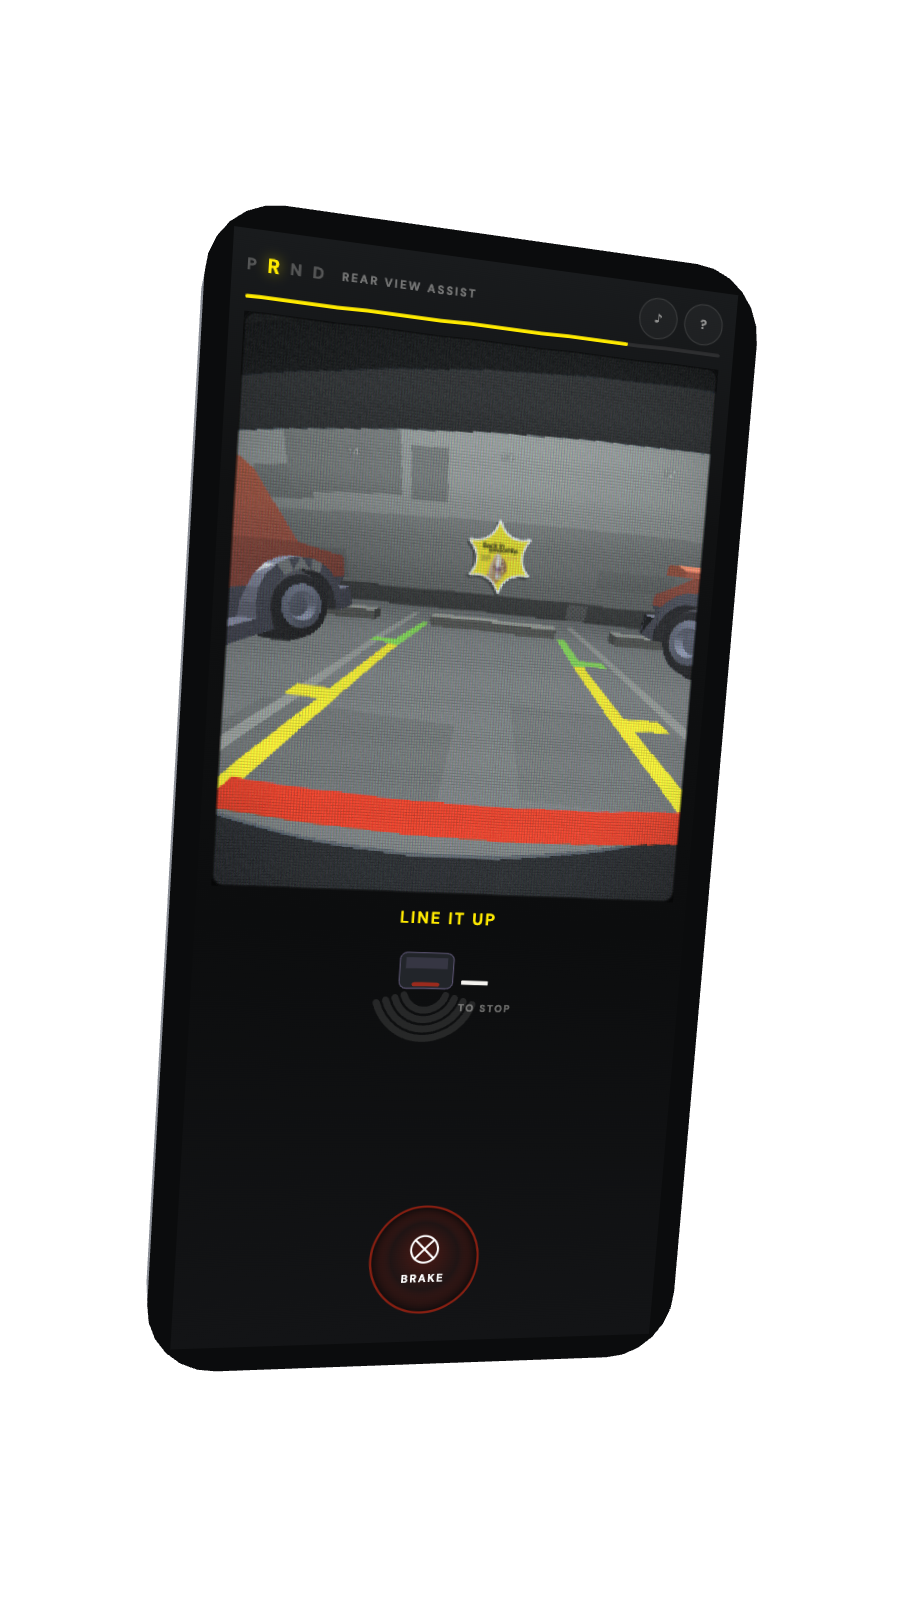
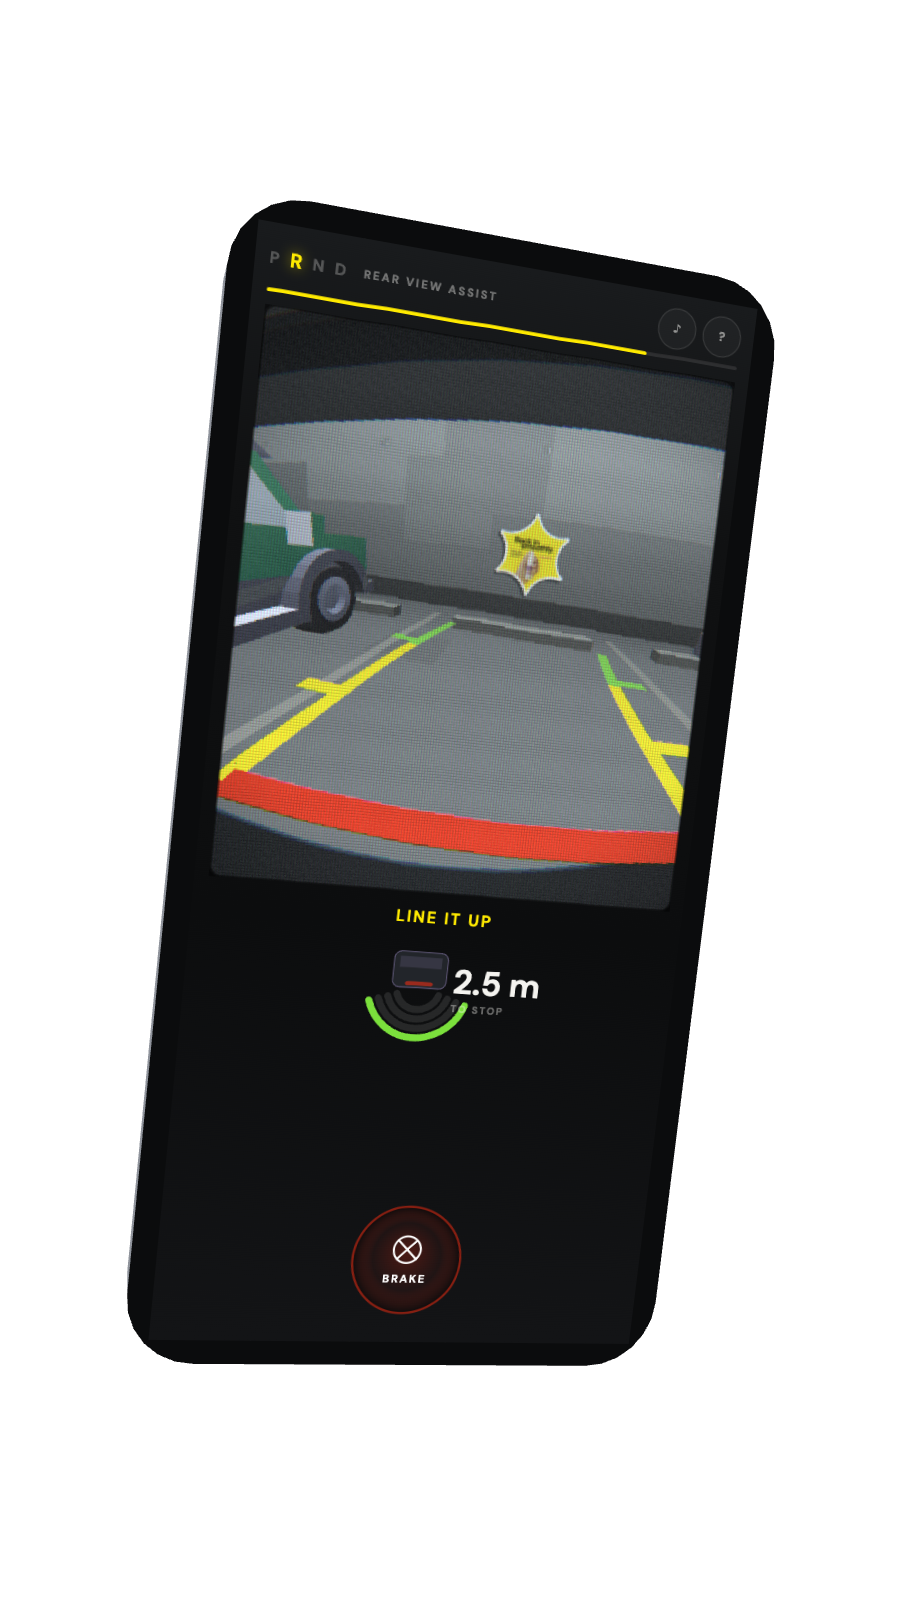
Push the lens harder across the whole feed
Barrel distortion goes from a hint to a proper wide-angle bow, and the colour
fringing gets a second component. The old one was cubic in radius, which is how
lateral chromatic aberration actually behaves but means it only ever shows in
the corners; a linear per-channel scale sits alongside it now, so the fringing
reads across the middle of the frame too. Both ease off on the payoff so the
poster still arrives as artwork. The dashboard stays crisp interface.

diff --git a/dist/embed.html b/dist/embed.html
@@ -2361,7 +2361,7 @@ window.PM_MODELS = {
     uniform float uTime;
     uniform float uAspect;
     uniform float uK1, uK2, uFit;
-    uniform float uChroma, uScan, uGrain, uVig, uBloom, uGain, uSat;
+    uniform float uChroma, uChromaScale, uScan, uGrain, uVig, uBloom, uGain, uSat;
     uniform vec2  uPanel;     // the display's own pixel grid
     uniform float uGrille;    // how hard the RGB matrix shows through
     uniform float uLines;
@@ -2370,9 +2370,12 @@ window.PM_MODELS = {
 
     float hash(vec2 p){ return fract(sin(dot(p, vec2(127.1, 311.7))) * 43758.5453); }
 
-    vec2 lens(vec2 p, float k){
+    /* s scales the whole channel, k bends it. The bend is cubic, so it only
+       really shows near the corners; the scale is linear, which is what puts
+       colour fringing across the middle of the frame as well. */
+    vec2 lens(vec2 p, float k, float s){
       float r2 = dot(p, p);
-      return p * (1.0 + (uK1 + k) * r2 + uK2 * r2 * r2);
+      return p * s * (1.0 + (uK1 + k) * r2 + uK2 * r2 * r2);
     }
     vec2 toUv(vec2 p){ return (p * uFit) / vec2(uAspect, 1.0) + 0.5; }
 
@@ -2400,11 +2403,12 @@ window.PM_MODELS = {
       vec2 p = (snapped - 0.5) * vec2(uAspect, 1.0);
       float r2 = dot(p, p);
 
-      // --- lens + lateral chromatic aberration --------------------------
-      vec2 uvG = toUv(lens(p, 0.0));
-      float ca = uChroma * (0.35 + r2 * 2.2);
-      vec2 uvR = toUv(lens(p, ca));
-      vec2 uvB = toUv(lens(p, -ca));
+      // --- lens + chromatic aberration ----------------------------------
+      vec2 uvG = toUv(lens(p, 0.0, 1.0));
+      float ca = uChroma * (0.6 + r2 * 3.0);
+      float cs = uChromaScale;
+      vec2 uvR = toUv(lens(p, ca, 1.0 + cs));
+      vec2 uvB = toUv(lens(p, -ca, 1.0 - cs));
 
       vec3 col;
       col.r = texture2D(uTex, clamp(uvR, 0.001, 0.999)).r;
@@ -2492,6 +2496,7 @@ window.PM_MODELS = {
     gl.uniform1f(U.uAspect, aspect);
     gl.uniform1f(U.uK1, prm.k1); gl.uniform1f(U.uK2, prm.k2); gl.uniform1f(U.uFit, fit);
     gl.uniform1f(U.uChroma, prm.chroma);
+    gl.uniform1f(U.uChromaScale, prm.chromaScale === undefined ? 0 : prm.chromaScale);
     gl.uniform1f(U.uScan, prm.scan);
     gl.uniform1f(U.uGrain, prm.grain);
     gl.uniform1f(U.uVig, prm.vignette);
@@ -2652,8 +2657,9 @@ window.PM_MODELS = {
 
   /* ---- the look, in one place ------------------------------------------- */
   const LOOK = {
-    k1: 0.30, k2: 0.09,
-    chroma: 0.0028,
+    k1: 0.52, k2: 0.20,      // a proper wide-angle bow, not a hint of one
+    chroma: 0.0075,
+    chromaScale: 0.0028,     // the part that shows away from the corners
     scan: 0.5,
     grain: 0.05,
     vignette: 0.8,
@@ -4264,7 +4270,8 @@ window.PM_MODELS = {
         radius: this.feedRadius * this.dpr,
         time: this.time,
         k1: L.k1 * (1 - ease * 0.55), k2: L.k2 * (1 - ease * 0.55),
-        chroma: L.chroma * (1 - ease * 0.8),
+        chroma: L.chroma * (1 - ease * 0.55),
+        chromaScale: L.chromaScale * (1 - ease * 0.55),
         scan: L.scan * (1 - ease * 0.62),
         grain: L.grain * (1 - ease * 0.55),
         vignette: L.vignette * (1 - ease * 0.45),
@@ -4698,7 +4705,8 @@ window.PM_MODELS = {
         radius: this.L.radius,
         time: t,
         k1: LK.k1 * (1 - ease * 0.55), k2: LK.k2 * (1 - ease * 0.55),
-        chroma: LK.chroma * (1 - ease * 0.8),
+        chroma: LK.chroma * (1 - ease * 0.55),
+        chromaScale: LK.chromaScale * (1 - ease * 0.55),
         scan: LK.scan * (1 - ease * 0.62),
         grain: LK.grain * (1 - ease * 0.55),
         vignette: LK.vignette * (1 - ease * 0.45),

diff --git a/index.html b/index.html
@@ -2368,7 +2368,7 @@ window.PM_MODELS = {
     uniform float uTime;
     uniform float uAspect;
     uniform float uK1, uK2, uFit;
-    uniform float uChroma, uScan, uGrain, uVig, uBloom, uGain, uSat;
+    uniform float uChroma, uChromaScale, uScan, uGrain, uVig, uBloom, uGain, uSat;
     uniform vec2  uPanel;     // the display's own pixel grid
     uniform float uGrille;    // how hard the RGB matrix shows through
     uniform float uLines;
@@ -2377,9 +2377,12 @@ window.PM_MODELS = {
 
     float hash(vec2 p){ return fract(sin(dot(p, vec2(127.1, 311.7))) * 43758.5453); }
 
-    vec2 lens(vec2 p, float k){
+    /* s scales the whole channel, k bends it. The bend is cubic, so it only
+       really shows near the corners; the scale is linear, which is what puts
+       colour fringing across the middle of the frame as well. */
+    vec2 lens(vec2 p, float k, float s){
       float r2 = dot(p, p);
-      return p * (1.0 + (uK1 + k) * r2 + uK2 * r2 * r2);
+      return p * s * (1.0 + (uK1 + k) * r2 + uK2 * r2 * r2);
     }
     vec2 toUv(vec2 p){ return (p * uFit) / vec2(uAspect, 1.0) + 0.5; }
 
@@ -2407,11 +2410,12 @@ window.PM_MODELS = {
       vec2 p = (snapped - 0.5) * vec2(uAspect, 1.0);
       float r2 = dot(p, p);
 
-      // --- lens + lateral chromatic aberration --------------------------
-      vec2 uvG = toUv(lens(p, 0.0));
-      float ca = uChroma * (0.35 + r2 * 2.2);
-      vec2 uvR = toUv(lens(p, ca));
-      vec2 uvB = toUv(lens(p, -ca));
+      // --- lens + chromatic aberration ----------------------------------
+      vec2 uvG = toUv(lens(p, 0.0, 1.0));
+      float ca = uChroma * (0.6 + r2 * 3.0);
+      float cs = uChromaScale;
+      vec2 uvR = toUv(lens(p, ca, 1.0 + cs));
+      vec2 uvB = toUv(lens(p, -ca, 1.0 - cs));
 
       vec3 col;
       col.r = texture2D(uTex, clamp(uvR, 0.001, 0.999)).r;
@@ -2499,6 +2503,7 @@ window.PM_MODELS = {
     gl.uniform1f(U.uAspect, aspect);
     gl.uniform1f(U.uK1, prm.k1); gl.uniform1f(U.uK2, prm.k2); gl.uniform1f(U.uFit, fit);
     gl.uniform1f(U.uChroma, prm.chroma);
+    gl.uniform1f(U.uChromaScale, prm.chromaScale === undefined ? 0 : prm.chromaScale);
     gl.uniform1f(U.uScan, prm.scan);
     gl.uniform1f(U.uGrain, prm.grain);
     gl.uniform1f(U.uVig, prm.vignette);
@@ -2659,8 +2664,9 @@ window.PM_MODELS = {
 
   /* ---- the look, in one place ------------------------------------------- */
   const LOOK = {
-    k1: 0.30, k2: 0.09,
-    chroma: 0.0028,
+    k1: 0.52, k2: 0.20,      // a proper wide-angle bow, not a hint of one
+    chroma: 0.0075,
+    chromaScale: 0.0028,     // the part that shows away from the corners
     scan: 0.5,
     grain: 0.05,
     vignette: 0.8,
@@ -4271,7 +4277,8 @@ window.PM_MODELS = {
         radius: this.feedRadius * this.dpr,
         time: this.time,
         k1: L.k1 * (1 - ease * 0.55), k2: L.k2 * (1 - ease * 0.55),
-        chroma: L.chroma * (1 - ease * 0.8),
+        chroma: L.chroma * (1 - ease * 0.55),
+        chromaScale: L.chromaScale * (1 - ease * 0.55),
         scan: L.scan * (1 - ease * 0.62),
         grain: L.grain * (1 - ease * 0.55),
         vignette: L.vignette * (1 - ease * 0.45),
@@ -4705,7 +4712,8 @@ window.PM_MODELS = {
         radius: this.L.radius,
         time: t,
         k1: LK.k1 * (1 - ease * 0.55), k2: LK.k2 * (1 - ease * 0.55),
-        chroma: LK.chroma * (1 - ease * 0.8),
+        chroma: LK.chroma * (1 - ease * 0.55),
+        chromaScale: LK.chromaScale * (1 - ease * 0.55),
         scan: LK.scan * (1 - ease * 0.62),
         grain: LK.grain * (1 - ease * 0.55),
         vignette: LK.vignette * (1 - ease * 0.45),

diff --git a/src/post.js b/src/post.js
@@ -24,7 +24,7 @@
     uniform float uTime;
     uniform float uAspect;
     uniform float uK1, uK2, uFit;
-    uniform float uChroma, uScan, uGrain, uVig, uBloom, uGain, uSat;
+    uniform float uChroma, uChromaScale, uScan, uGrain, uVig, uBloom, uGain, uSat;
     uniform vec2  uPanel;     // the display's own pixel grid
     uniform float uGrille;    // how hard the RGB matrix shows through
     uniform float uLines;
@@ -33,9 +33,12 @@
 
     float hash(vec2 p){ return fract(sin(dot(p, vec2(127.1, 311.7))) * 43758.5453); }
 
-    vec2 lens(vec2 p, float k){
+    /* s scales the whole channel, k bends it. The bend is cubic, so it only
+       really shows near the corners; the scale is linear, which is what puts
+       colour fringing across the middle of the frame as well. */
+    vec2 lens(vec2 p, float k, float s){
       float r2 = dot(p, p);
-      return p * (1.0 + (uK1 + k) * r2 + uK2 * r2 * r2);
+      return p * s * (1.0 + (uK1 + k) * r2 + uK2 * r2 * r2);
     }
     vec2 toUv(vec2 p){ return (p * uFit) / vec2(uAspect, 1.0) + 0.5; }
 
@@ -63,11 +66,12 @@
       vec2 p = (snapped - 0.5) * vec2(uAspect, 1.0);
       float r2 = dot(p, p);
 
-      // --- lens + lateral chromatic aberration --------------------------
-      vec2 uvG = toUv(lens(p, 0.0));
-      float ca = uChroma * (0.35 + r2 * 2.2);
-      vec2 uvR = toUv(lens(p, ca));
-      vec2 uvB = toUv(lens(p, -ca));
+      // --- lens + chromatic aberration ----------------------------------
+      vec2 uvG = toUv(lens(p, 0.0, 1.0));
+      float ca = uChroma * (0.6 + r2 * 3.0);
+      float cs = uChromaScale;
+      vec2 uvR = toUv(lens(p, ca, 1.0 + cs));
+      vec2 uvB = toUv(lens(p, -ca, 1.0 - cs));
 
       vec3 col;
       col.r = texture2D(uTex, clamp(uvR, 0.001, 0.999)).r;
@@ -155,6 +159,7 @@
     gl.uniform1f(U.uAspect, aspect);
     gl.uniform1f(U.uK1, prm.k1); gl.uniform1f(U.uK2, prm.k2); gl.uniform1f(U.uFit, fit);
     gl.uniform1f(U.uChroma, prm.chroma);
+    gl.uniform1f(U.uChromaScale, prm.chromaScale === undefined ? 0 : prm.chromaScale);
     gl.uniform1f(U.uScan, prm.scan);
     gl.uniform1f(U.uGrain, prm.grain);
     gl.uniform1f(U.uVig, prm.vignette);
@@ -315,8 +320,9 @@
 
   /* ---- the look, in one place ------------------------------------------- */
   const LOOK = {
-    k1: 0.30, k2: 0.09,
-    chroma: 0.0028,
+    k1: 0.52, k2: 0.20,      // a proper wide-angle bow, not a hint of one
+    chroma: 0.0075,
+    chromaScale: 0.0028,     // the part that shows away from the corners
     scan: 0.5,
     grain: 0.05,
     vignette: 0.8,

diff --git a/src/game.js b/src/game.js
@@ -454,7 +454,8 @@
         radius: this.feedRadius * this.dpr,
         time: this.time,
         k1: L.k1 * (1 - ease * 0.55), k2: L.k2 * (1 - ease * 0.55),
-        chroma: L.chroma * (1 - ease * 0.8),
+        chroma: L.chroma * (1 - ease * 0.55),
+        chromaScale: L.chromaScale * (1 - ease * 0.55),
         scan: L.scan * (1 - ease * 0.62),
         grain: L.grain * (1 - ease * 0.55),
         vignette: L.vignette * (1 - ease * 0.45),

diff --git a/src/studio.js b/src/studio.js
@@ -397,7 +397,8 @@
         radius: this.L.radius,
         time: t,
         k1: LK.k1 * (1 - ease * 0.55), k2: LK.k2 * (1 - ease * 0.55),
-        chroma: LK.chroma * (1 - ease * 0.8),
+        chroma: LK.chroma * (1 - ease * 0.55),
+        chromaScale: LK.chromaScale * (1 - ease * 0.55),
         scan: LK.scan * (1 - ease * 0.62),
         grain: LK.grain * (1 - ease * 0.55),
         vignette: LK.vignette * (1 - ease * 0.45),

diff --git a/README.md b/README.md
@@ -51,7 +51,10 @@ Everything on screen is either a reversing camera, a car park, or PlatanoMelón.
   cheap, then one pass adds the barrel distortion, chromatic fringing and sensor
   grain — and then the display itself: the picture is snapped to a 336-pixel-wide
   panel grid, with the dark lattice between pixels and the red-green-blue stripe
-  drawn at two deliberately different frequencies. Beating them together is what
+  drawn at two deliberately different frequencies. The barrel distortion is a
+  proper wide-angle bow, and the colour fringing has two parts: a cubic term
+  that shows at the corners the way lateral aberration does, and a linear
+  per-channel scale that keeps it visible across the middle of the frame. Beating them together is what
   makes a photographed screen look like a photographed screen, which is exactly
   what the mockups are. The grille eases off on the payoff so the artwork lands
   clean.
